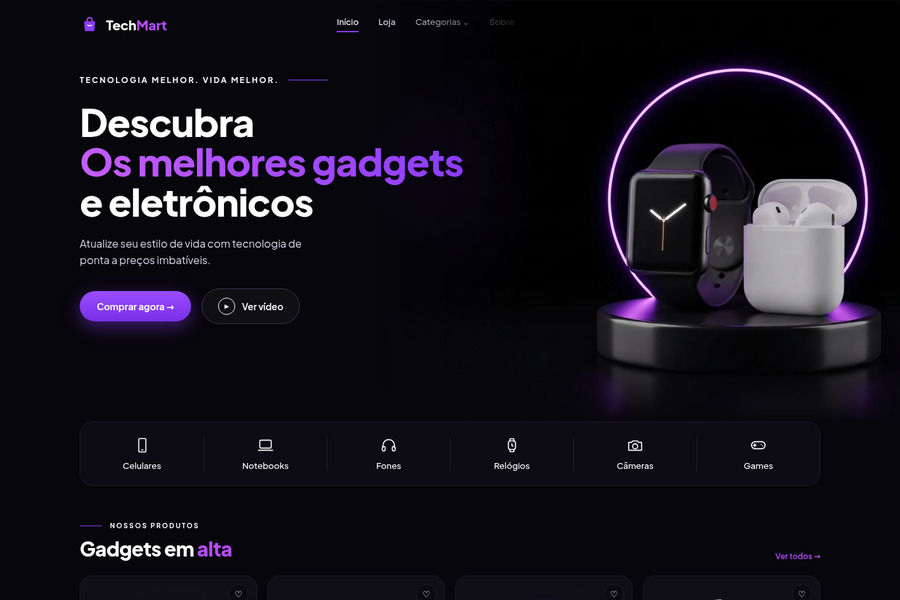
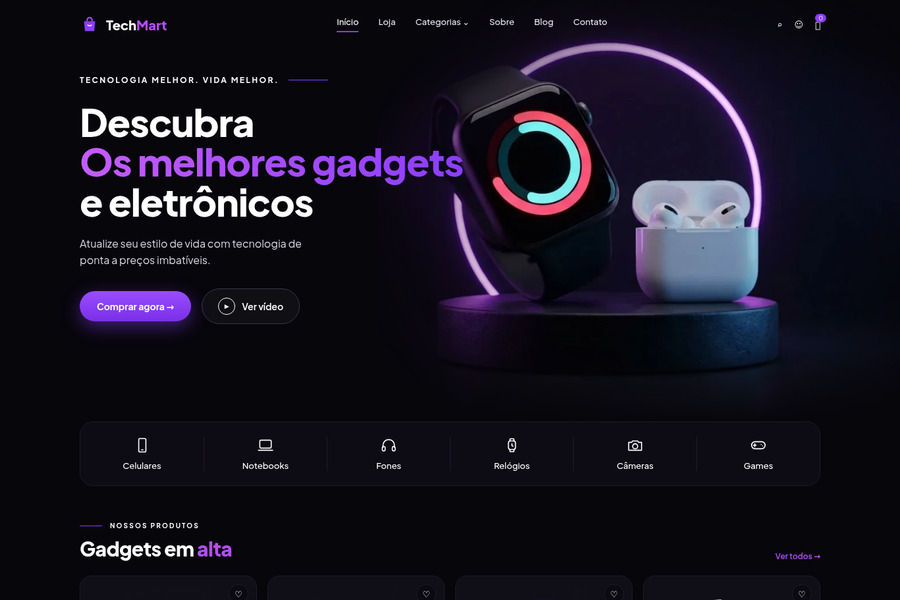
TechMart: hero do pin (relogio grande, mostrador colorido, anel neon)

Changed region(s): [[0.4667, 0.03, 1.0, 0.69], [0.4667, 0.03, 0.56, 0.06], [0.8711, 0.03, 0.9333, 0.06]]

diff --git a/src/components/models/TechFold.tsx b/src/components/models/TechFold.tsx
@@ -55,7 +55,7 @@ export function TechFold({ client }: { client?: { name?: string; whatsapp?: stri
         .tm *{box-sizing:border-box}.tm a,.tm button,.tm input{font-family:inherit}
         .tm h1,.tm h2,.tm h3{font-family:'Plus Jakarta Sans',system-ui,sans-serif!important;font-weight:800!important;letter-spacing:-.02em!important;text-transform:none!important;margin:0}
         .tm .w{max-width:1180px;margin:0 auto;padding:0 28px}
-        .tm .nav{display:flex;align-items:center;justify-content:space-between;padding:22px 0;font-size:13px;font-weight:500}
+        .tm .nav{position:relative;z-index:5;display:flex;align-items:center;justify-content:space-between;padding:22px 0;font-size:13px;font-weight:500}
         .tm .lg{display:flex;align-items:center;gap:10px;font-weight:800;font-size:20px}.tm .lg svg{width:30px;height:30px}.tm .lg b{color:${PU2};font-weight:800}
         .tm .lk{display:flex;gap:30px}.tm .lk a{color:#e6e3f0;text-decoration:none;cursor:pointer;padding-bottom:6px;border-bottom:2px solid transparent}.tm .lk a.on{border-color:${PU};color:#fff}
         .tm .ic{display:flex;gap:18px;align-items:center}.tm .ic button{background:none;border:0;color:#fff;cursor:pointer;position:relative;padding:0}.tm .ic .n{position:absolute;top:-8px;right:-9px;background:${PU};border-radius:99px;font-size:9px;padding:1px 5px}
@@ -69,7 +69,7 @@ export function TechFold({ client }: { client?: { name?: string; whatsapp?: stri
         .tm .row{display:flex;gap:16px;align-items:center}
         .tm .bt{display:inline-flex;align-items:center;gap:10px;background:linear-gradient(180deg,#9a4dff,#7a2fe8);color:#fff;border:0;border-radius:99px;padding:14px 26px;font-weight:700;font-size:14px;text-decoration:none;cursor:pointer;box-shadow:0 8px 28px rgba(139,61,255,.45)}
         .tm .vd{display:inline-flex;align-items:center;gap:10px;border:1px solid #3a3550;background:rgba(255,255,255,.04);border-radius:99px;padding:13px 24px;font-weight:600;font-size:14px;color:#fff;text-decoration:none;cursor:pointer}.tm .vd i{width:26px;height:26px;border-radius:50%;border:1px solid #fff;display:flex;align-items:center;justify-content:center;font-size:9px;font-style:normal}
-        .tm .stage{position:absolute;right:0;top:0;bottom:0;width:58%;z-index:1;background:url(/tech-hero.webp) right bottom/contain no-repeat;-webkit-mask-image:linear-gradient(90deg,transparent 0,#000 30%);mask-image:linear-gradient(90deg,transparent 0,#000 30%)}
+        .tm .stage{position:absolute;right:0;top:0;bottom:0;width:58%;z-index:1;background:url(/tech-hero.webp) 62% 58%/150% auto no-repeat;-webkit-mask-image:radial-gradient(ellipse 62% 62% at 56% 52%,#000 55%,transparent 100%);mask-image:radial-gradient(ellipse 62% 62% at 56% 52%,#000 55%,transparent 100%)}
         .tm .cats{position:relative;z-index:4;display:grid;grid-template-columns:repeat(6,1fr);background:#0d0b14;border:1px solid ${LN};border-radius:20px;padding:22px 0;margin-top:0}
         .tm .cats div{display:flex;flex-direction:column;align-items:center;gap:10px;font-size:13px;font-weight:500;border-left:1px solid ${LN};cursor:pointer}.tm .cats div:first-child{border-left:0}
         .tm section{padding:54px 0 0}
